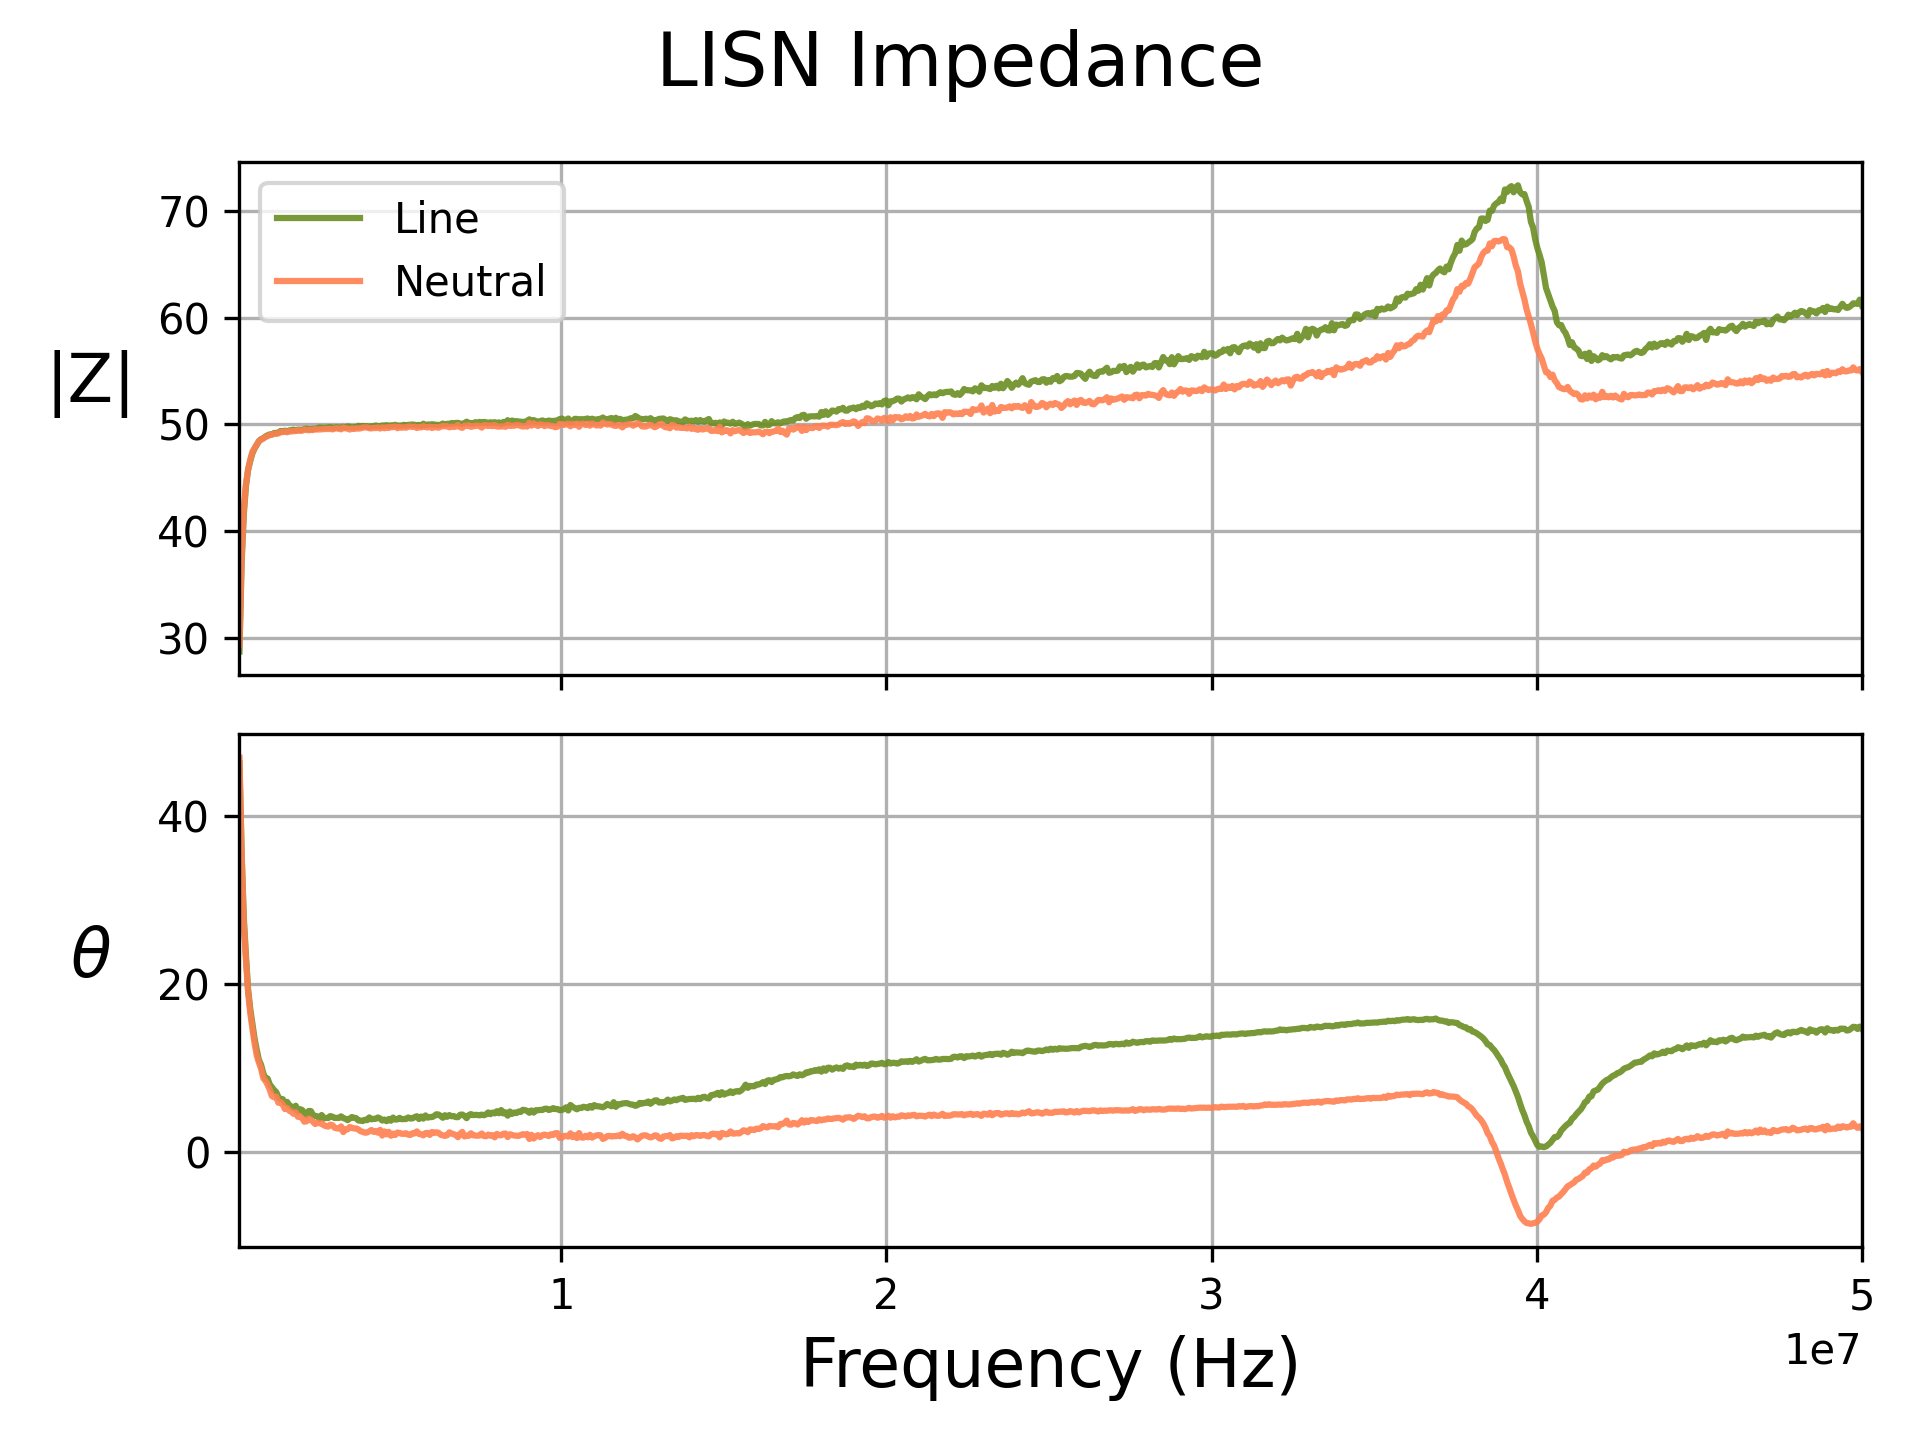
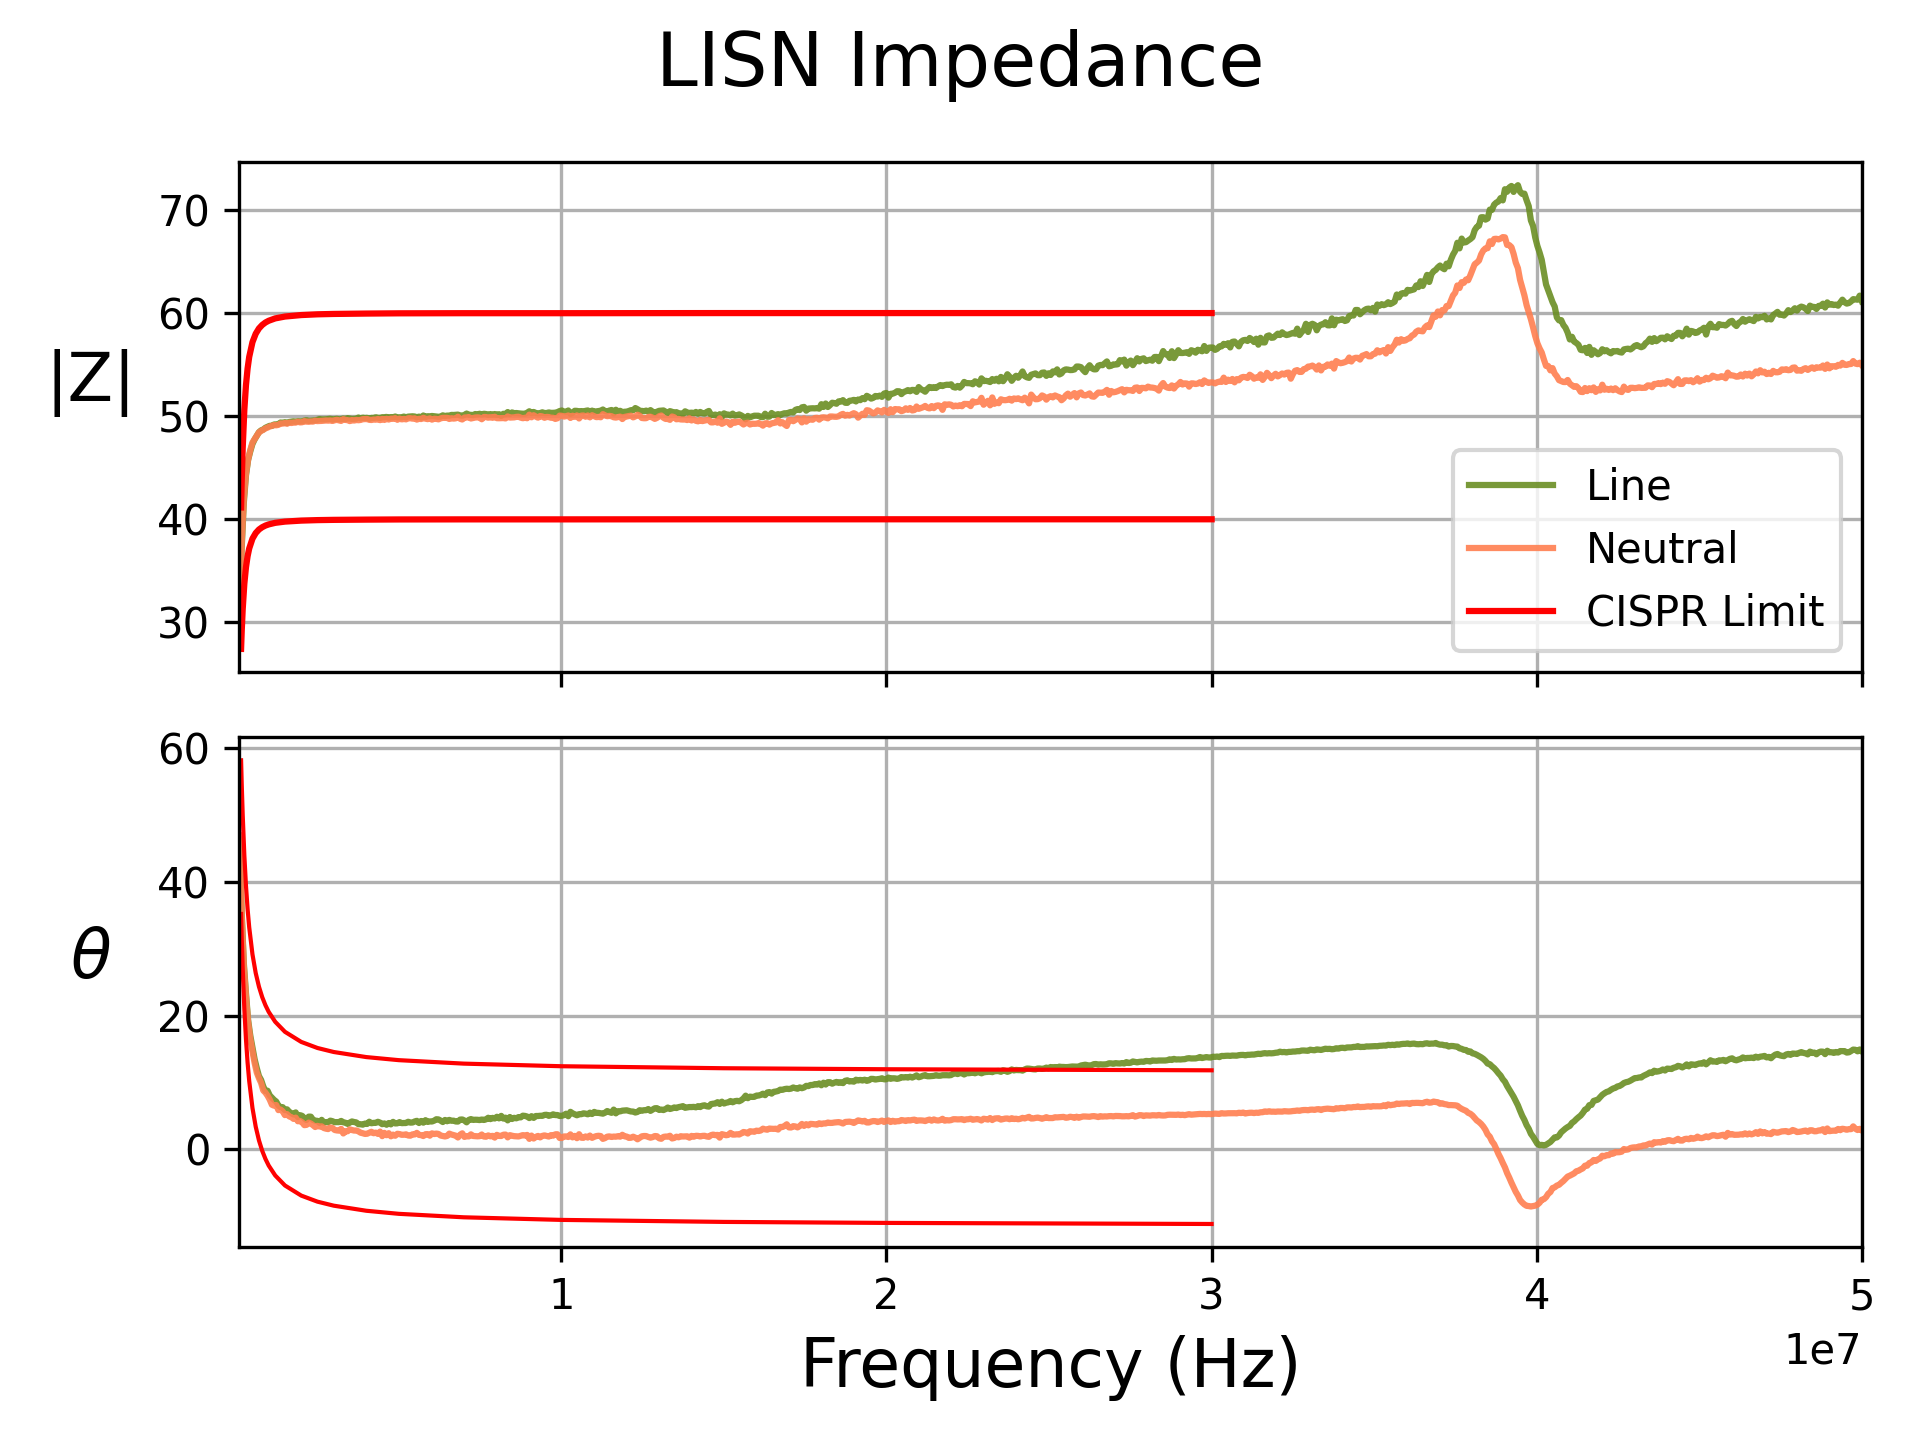
updated plots and readme

diff --git a/doc/plot_response.py b/doc/plot_response.py
@@ -6,6 +6,7 @@ from matplotlib.patches import ConnectionPatch
 
 import pandas
 
+
 dm_l_file_name = "measurements/l_dm.csv"
 dm_n_file_name = "measurements/n_dm.csv"
 cm_cm_file_name = "measurements/cm_cm.csv"
@@ -13,6 +14,7 @@ cm_dm_file_name = "measurements/cm_dm.csv"
 
 l_impedance_file_name = "measurements/l_impedance.csv"
 n_impedance_file_name = "measurements/n_impedance.csv"
+cispr_impedance_file_name = "cispr16_impedances.csv"
 
 file_data = pandas.read_csv(cm_dm_file_name, sep=',', skiprows=13, header=None)
 freq_cm_dm = file_data[0].to_numpy()
@@ -102,10 +104,29 @@ n_phase = np.angle(n_r + 1.0j * n_z, deg=True)
 
 fig, (ax1, ax2) = plt.subplots(2, 1, sharex=True)
 
+
+file_data = pandas.read_csv(cispr_impedance_file_name, sep=',', skiprows=1, header=None)
+cispr_freq = file_data[0].to_numpy()
+cispr_impedance = file_data[1].to_numpy()
+cispr_phase = file_data[2].to_numpy()
+print(cispr_freq)
+
+cispr_impedance_lower = cispr_impedance * 0.8
+cispr_impedance_upper = cispr_impedance * 1.2
+
+cispr_phase_lower = cispr_phase - 11.5
+cispr_phase_upper = cispr_phase + 11.5 
+
 ax1.plot(freq_l_impedance, l_abs_z, color="olivedrab", alpha=0.9, label="Line")
 ax1.plot(freq_n_impedance, n_abs_z, color="coral", alpha=0.9, label="Neutral")
+ax1.plot(cispr_freq, cispr_impedance_lower, color="red", alpha=1, label="CISPR Limit")
+ax1.plot(cispr_freq, cispr_impedance_upper, color="red", alpha=1)
+
 ax2.plot(freq_l_impedance, l_phase, color="olivedrab", alpha=0.9, label="Line")
 ax2.plot(freq_n_impedance, n_phase, color="coral", alpha=0.9, label="Neutral")
+ax2.plot(cispr_freq, cispr_phase_upper, color="red", alpha=1, linewidth=1, label="CISPR Limit")
+ax2.plot(cispr_freq, cispr_phase_lower, color="red", alpha=1, linewidth= 1, label="CISPR Limit")
+
 
 
 #ax.set_ylim([-12,-8])

diff --git a/README.md b/README.md
@@ -1,1 +1,79 @@
 # leery-lisn
+### A open source dual AC LISN with integrated common mode / differential mode separator and transient limiter.
+
+**Schematic [here](doc/lisn-pcb.pdf)**
+
+<img src="doc/photos/lisn_no_top.jpeg" width="600"/>
+
+## Summary
+The leery-lisn is a Line Impedance Stabilization Network (LISN) for pre-compliance conducted EMI measurements of devices that plug into the AC line.
+A LISN goes between a device and the AC outlet and provides a known AC line impedance, allowing for repeatable measurements of conducted noise generated by the device.
+It also contains circuitry to couple the noise to a 50 ohm RF output to allow for measurement with a spectrum analyzer.
+
+The leery-lisn contains a LISN network on both the neutral and line connections of the AC plug and a common mode / differential mode separator, allowing for measurement of both the differential mode and common mode noise generated by a device.
+It also contains a transient limiter to protect a connected spectrum analyzer from transients on the AC line or plugging the LISN into the AC line when the spectrum analyzer is already connected.
+
+
+The design of the leery-lisn is loosely based on the LISN designs from this [thread](https://www.eevblog.com/forum/projects/5uh-lisn-for-spectrum-analyzer-emcemi-work/) on the EEVBlog forum, as well as the designs for a [common mode / differential mode separator](https://www.eevblog.com/forum/projects/diy-dm-cm-seperator-for-emc-lisn-mate/) and this [transient limiter](https://www.eevblog.com/forum/projects/transient-limiter-for-spectrum-analyzer-protection/).
+
+## Specifications & Operation
+The leery-lisn is a 50uH LISN, which is the typical impedance value for conducted emissions testing between 150KHz - 30MHz, as specified in standards such as CISPR16.
+The leery-lisn is designed for a maximum input / output voltage of 240V, although the output plug is fixed as a US style 120V plug.
+The current rating is 5A RMS.
+
+Due to the transient limiter, the common mode and differential mode outputs have 10dB of attenuation.
+For proper separation of the common mode and differential mode signals the unused output should be attenuated into 50 ohms.
+
+
+The leery-lisn contains 8.1uF of capacitance between each AC leg and ground to decouple the LISN impedance from the impedance of the AC line.
+Due to the high ground currents resulting from this capacitance, consider using a isolation transformer between the AC line and the leery-lisn.
+
+
+## Performance
+S21 measurements were taken of the leery-lisn to verify correct operation of the common mode / differential mode separator and impedance measurements were taken to check compliance with CISPR16 standard.
+
+
+A very cursed adaptor was created to connect the AC output of the LISN to a VNA and measurements were taken with the AC input to the VNA shorted.
+
+<img src="doc/photos/sma_to_ac.jpeg" width="400"/>
+
+
+The leery-lisn is a three port device, so it can not be fully characterized with a two port VNA.
+However, a resistive splitter allows for accurately measuring the common mode S21 and the common mode rejection.
+
+<img src="doc/photos/test_setup.jpeg" width="600"/>
+
+<img src="doc/cm_rejection.png" width="300"/> <img src="doc/cm_gain.png" width="300"/>
+
+
+If it is assumed that driving one input to the LISN with the other terminated into 50 ohms provides a even split of common mode and differential mode stimulus, the differential mode S21 can also be measured.
+
+<img src="doc/dm_gain.png" width="600"/>
+
+
+The impedance of the two legs can also be compared against the CISPR16 standard, which provides a table of frequency vs the allowable |Z| and phase of the LISN input impedance.
+From the plot below it can be seen that the line leg of the LISN is slightly out of spec above 25MHz due to an extra 2" of wire running between the AC connector and the PCB.
+This is also the cause of the difference in the differential mode response for the two inputs of the LISN.
+leery-lisn technically does not meet the CISPR16 requirements, but should be close enough for pre-compliance work.
+<img src="doc/lisn_impedance.png" width="600"/>
+
+
+
+## Construction
+The leery-lisn is completely open source and the PCB design for the LISN and the front and back panels are provided in this repository.
+
+Parts not on the BOM for the PCB are:
+
+| Description  | Quantity | Part Number     |
+|--------------|----------|-----------------|
+| Enclosure    | 1        | 1455T1601BU     |
+| Fuse Holder  | 2        | 696211001102    |
+| AC Outlet    | 1        | 3-119-052       |
+| Power Switch | 1        | H8550VBBBEN551W |
+| AC Inlet     | 1        | 1-6609987-4     |
+
+## Improvements
+A bleeder resistor should be added across the input capacitors to discharge them.
+
+The impedance of the line side of the LISN is slightly outside of the limits specified in the CISPR16 standards due to the added wire length between the AC plug on the left side of the panel and the line input on the PCB, which is on the right.
+The front panel could be redone to reduce this wire length.
